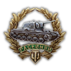
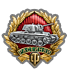
0.8.11 support

diff --git a/trunk/Sources/WotDossier/Controls/AchievementsCompareStatisticView.xaml b/trunk/Sources/WotDossier/Controls/AchievementsCompareStatisticView.xaml
@@ -20,12 +20,12 @@
                         <controls:MedalTooltip Header="{x:Static resources:Resources.Medal_Sniper}" Text="{x:Static resources:Resources.Tooltip_BattleHeroAchievements_Sniper}" />
                     </ToolTipService.ToolTip>
                 </controls:AchievementCompareRow>
-                <controls:AchievementCompareRow FirstValue="{Binding First.Sniper2}" SecondValue="{Binding Second.Sniper2}" AchievementIconSource="../Resources/Images/Medals/Sniper.png">
+                <controls:AchievementCompareRow FirstValue="{Binding First.Sniper2}" SecondValue="{Binding Second.Sniper2}" AchievementIconSource="../Resources/Images/Medals/Sniper2.png">
                     <ToolTipService.ToolTip>
                         <controls:MedalTooltip Header="{x:Static resources:Resources.Medal_Sniper2}" Text="{x:Static resources:Resources.Tooltip_BattleHeroAchievements_Sniper2}" />
                     </ToolTipService.ToolTip>
                 </controls:AchievementCompareRow>
-                <controls:AchievementCompareRow FirstValue="{Binding First.MainGun}" SecondValue="{Binding Second.MainGun}" AchievementIconSource="../Resources/Images/Medals/Sniper.png">
+                <controls:AchievementCompareRow FirstValue="{Binding First.MainGun}" SecondValue="{Binding Second.MainGun}" AchievementIconSource="../Resources/Images/Medals/maingun.png">
                     <ToolTipService.ToolTip>
                         <controls:MedalTooltip Header="{x:Static resources:Resources.Medal_MainGun}" Text="{x:Static resources:Resources.Tooltip_BattleHeroAchievements_MainGun}" />
                     </ToolTipService.ToolTip>
@@ -168,6 +168,11 @@
                         <controls:MedalTooltip Header="{x:Static resources:Resources.Medal_Billotte}" Text="{x:Static resources:Resources.Tooltip_EpicAchievements_Billotte}" />
                     </ToolTipService.ToolTip>
                 </controls:AchievementCompareRow>
+                <controls:AchievementCompareRow FirstValue="{Binding First.Ranger}" SecondValue="{Binding Second.Ranger}" AchievementIconSource="../Resources/Images/Medals/Jager.png">
+                    <ToolTipService.ToolTip>
+                        <controls:MedalTooltip Header="{x:Static resources:Resources.Medal_Ranger}" Text="{x:Static resources:Resources.Tooltip_SpecialAchievements_Ranger}" />
+                    </ToolTipService.ToolTip>
+                </controls:AchievementCompareRow>
                 <!--Special Achievements-->
                 <TextBlock HorizontalAlignment="Center" Text="{x:Static resources:Resources.Label_Achievements_Special}" FontSize="17" FontFamily="Arial" Foreground="White" Margin="0,40,0,20"></TextBlock>
                 <controls:AchievementCompareRow FirstValue="{Binding First.Survivor}" SecondValue="{Binding Second.Survivor}" AchievementIconSource="../Resources/Images/Medals/Diehard.png">
@@ -233,11 +238,6 @@
                 <!--Step Achievements-->
                 <!--Commemorative Achievements-->
                 <TextBlock HorizontalAlignment="Center" Text="{x:Static resources:Resources.Label_Achievements_CommemorativeAchievements}" FontSize="17" FontFamily="Arial" Foreground="White" Margin="0,40,0,20"></TextBlock>
-                <controls:AchievementCompareRow FirstValue="{Binding First.Ranger}" SecondValue="{Binding Second.Ranger}" AchievementIconSource="../Resources/Images/Medals/Jager.png">
-                    <ToolTipService.ToolTip>
-                        <controls:MedalTooltip Header="{x:Static resources:Resources.Medal_Ranger}" Text="{x:Static resources:Resources.Tooltip_SpecialAchievements_Ranger}" />
-                    </ToolTipService.ToolTip>
-                </controls:AchievementCompareRow>
                 <controls:AchievementCompareRow FirstValue="{Binding First.CoolHeaded}" SecondValue="{Binding Second.CoolHeaded}" AchievementIconSource="../Resources/Images/Medals/Imperturbable.png">
                     <ToolTipService.ToolTip>
                         <controls:MedalTooltip Header="{x:Static resources:Resources.Medal_CoolHeaded}" Text="{x:Static resources:Resources.Tooltip_CommemorativeAchievements_CoolHeaded}" />

diff --git a/trunk/Sources/WotDossier/Controls/Achievements.xaml b/trunk/Sources/WotDossier/Controls/Achievements.xaml
@@ -21,12 +21,12 @@
                         <controls:MedalTooltip Header="{x:Static resources:Resources.Medal_Sniper}" Text="{x:Static resources:Resources.Tooltip_BattleHeroAchievements_Sniper}" />
                     </ToolTipService.ToolTip>
                 </controls:MedalAchievement>
-                <controls:MedalAchievement Value="{Binding Sniper2}" Delta="{Binding Sniper2Delta}" Source="../Resources/Images/Medals/Sniper.png">
+                <controls:MedalAchievement Value="{Binding Sniper2}" Delta="{Binding Sniper2Delta}" Source="../Resources/Images/Medals/Sniper2.png">
                     <ToolTipService.ToolTip>
                         <controls:MedalTooltip Header="{x:Static resources:Resources.Medal_Sniper2}" Text="{x:Static resources:Resources.Tooltip_BattleHeroAchievements_Sniper2}" />
                     </ToolTipService.ToolTip>
                 </controls:MedalAchievement>
-                <controls:MedalAchievement Value="{Binding MainGun}" Delta="{Binding MainGunDelta}" Source="../Resources/Images/Medals/Sniper.png">
+                <controls:MedalAchievement Value="{Binding MainGun}" Delta="{Binding MainGunDelta}" Source="../Resources/Images/Medals/maingun.png">
                     <ToolTipService.ToolTip>
                         <controls:MedalTooltip Header="{x:Static resources:Resources.Medal_MainGun}" Text="{x:Static resources:Resources.Tooltip_BattleHeroAchievements_MainGun}" />
                     </ToolTipService.ToolTip>

diff --git a/trunk/Sources/WotDossier/Styles/DataGridHeaderTemplates.xaml b/trunk/Sources/WotDossier/Styles/DataGridHeaderTemplates.xaml
@@ -639,7 +639,7 @@
     
     <DataTemplate x:Key="Sniper2ColumnHeaderTemplate">
         <StackPanel Orientation="Vertical">
-            <Image Source="../Resources/Images/Medals/Sniper.png" Height="71" Width="67">
+            <Image Source="../Resources/Images/Medals/Sniper2.png" Height="71" Width="67">
                 <ToolTipService.ToolTip>
                     <ToolTip>
                         <controls:MedalTooltip Header="{x:Static resources:Resources.Medal_Sniper2}" Text="{x:Static resources:Resources.Tooltip_BattleHeroAchievements_Sniper2}"></controls:MedalTooltip>
@@ -652,7 +652,7 @@
     
     <DataTemplate x:Key="MainGunColumnHeaderTemplate">
         <StackPanel Orientation="Vertical">
-            <Image Source="../Resources/Images/Medals/Sniper.png" Height="71" Width="67">
+            <Image Source="../Resources/Images/Medals/maingun.png" Height="71" Width="67">
                 <ToolTipService.ToolTip>
                     <ToolTip>
                         <controls:MedalTooltip Header="{x:Static resources:Resources.Medal_MainGun}" Text="{x:Static resources:Resources.Tooltip_BattleHeroAchievements_MainGun}"></controls:MedalTooltip>

diff --git a/trunk/Sources/WotDossier.Dal/Resources/Resources.Designer.cs b/trunk/Sources/WotDossier.Dal/Resources/Resources.Designer.cs
@@ -412,11 +412,38 @@ namespace WotDossier.Dal.Resources {
         }
         
         /// <summary>
+        ///   Looks up a localized string similar to Windstorm.
+        /// </summary>
+        internal static string Map_84_winter {
+            get {
+                return ResourceManager.GetString("Map_84_winter", resourceCulture);
+            }
+        }
+        
+        /// <summary>
         ///   Looks up a localized string similar to Severogorsk.
         /// </summary>
         internal static string Map_85_winter {
             get {
                 return ResourceManager.GetString("Map_85_winter", resourceCulture);
+            }
+        }
+        
+        /// <summary>
+        ///   Looks up a localized string similar to Winter Himmelsdorf.
+        /// </summary>
+        internal static string Map_86_himmelsdorf_winter {
+            get {
+                return ResourceManager.GetString("Map_86_himmelsdorf_winter", resourceCulture);
+            }
+        }
+        
+        /// <summary>
+        ///   Looks up a localized string similar to Ruinberg on Fire.
+        /// </summary>
+        internal static string Map_87_ruinberg_on_fire {
+            get {
+                return ResourceManager.GetString("Map_87_ruinberg_on_fire", resourceCulture);
             }
         }
     }
